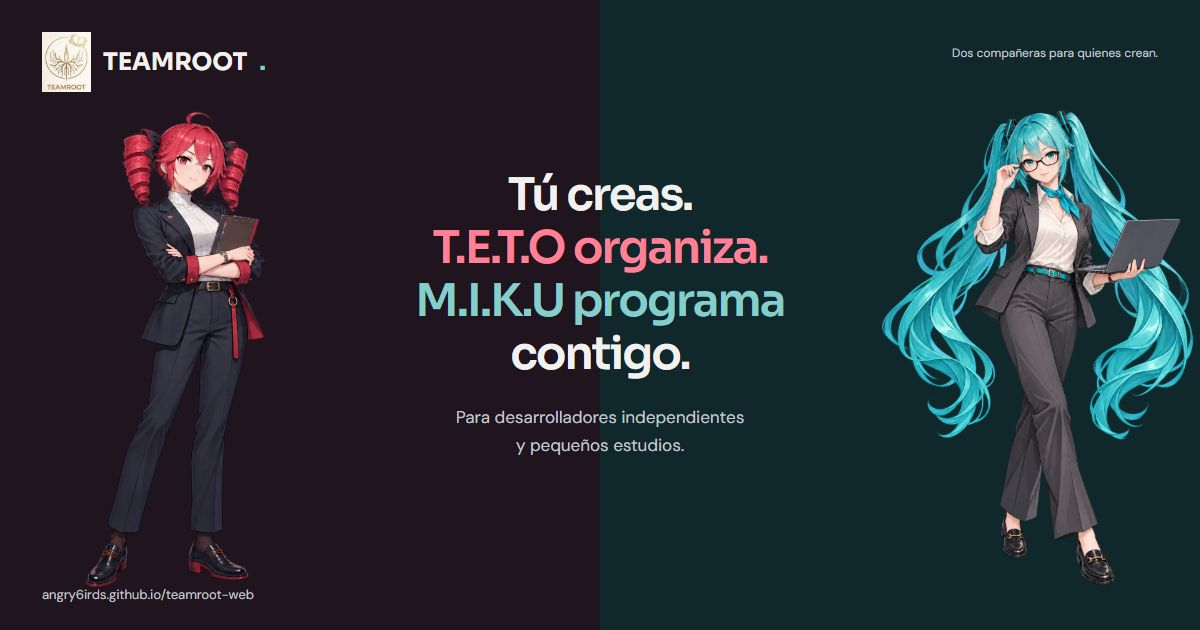
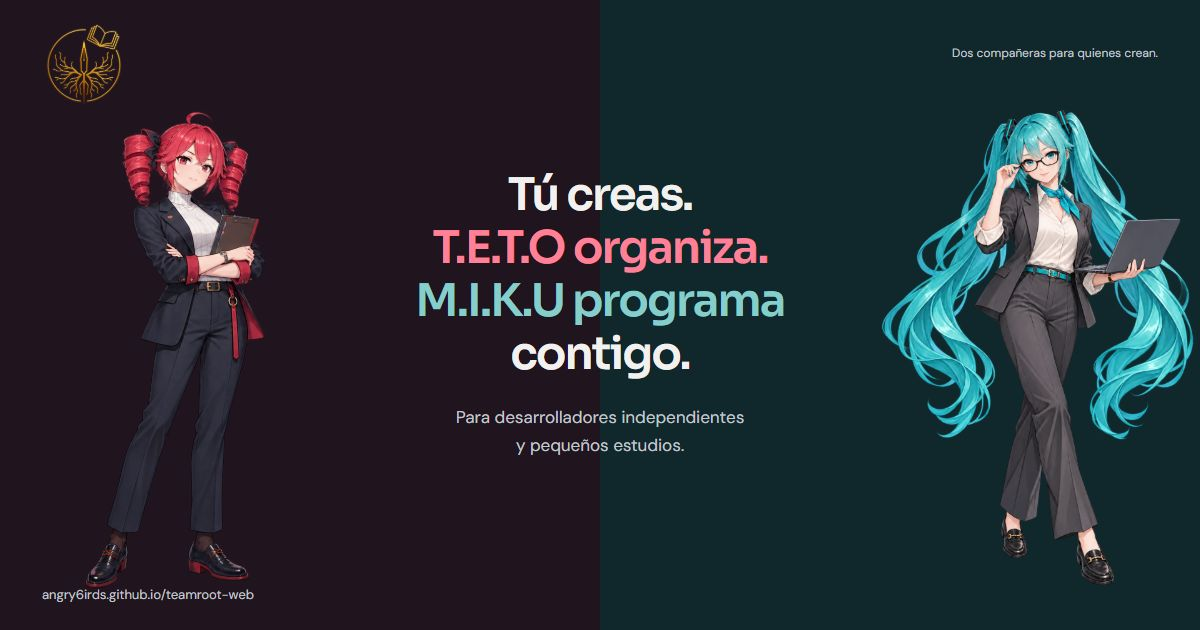
art: integrate transparent TEAMROOT emblem without lettering

Changed region(s): [[0.0308, 0.0302, 0.2158, 0.181]]

diff --git a/index.html b/index.html
@@ -5,25 +5,25 @@
   <meta name="theme-color" content="#101217">
   <meta name="description" content="T.E.T.O y M.I.K.U: compañeras de gestión y programación para desarrolladores independientes y pequeños estudios. Proyecto en desarrollo.">
   <title>TEAMROOT — T.E.T.O & M.I.K.U</title>
-  <link rel="icon" type="image/png" href="assets/teamroot-logo.png">
+  <link rel="icon" type="image/png" href="assets/teamroot-emblem.png">
   <link rel="canonical" href="https://angry6irds.github.io/teamroot-web/">
   <meta property="og:type" content="website">
   <meta property="og:locale" content="es_MX">
   <meta property="og:title" content="TEAMROOT — T.E.T.O & M.I.K.U">
   <meta property="og:description" content="Tú creas. T.E.T.O organiza. M.I.K.U programa contigo. Dos compañeras para desarrolladores independientes y pequeños estudios.">
   <meta property="og:url" content="https://angry6irds.github.io/teamroot-web/">
-  <meta property="og:image" content="https://angry6irds.github.io/teamroot-web/assets/social-preview.png?v=2">
+  <meta property="og:image" content="https://angry6irds.github.io/teamroot-web/assets/social-preview.png?v=3">
   <meta property="og:image:width" content="1200"><meta property="og:image:height" content="630">
   <meta property="og:image:alt" content="TEAMROOT: T.E.T.O y M.I.K.U, compañeras de gestión y programación">
   <meta name="twitter:card" content="summary_large_image">
   <meta name="twitter:title" content="TEAMROOT — T.E.T.O & M.I.K.U">
   <meta name="twitter:description" content="Tú creas. T.E.T.O organiza. M.I.K.U programa contigo.">
-  <meta name="twitter:image" content="https://angry6irds.github.io/teamroot-web/assets/social-preview.png?v=2">
-  <link rel="stylesheet" href="style.css?v=6">
+  <meta name="twitter:image" content="https://angry6irds.github.io/teamroot-web/assets/social-preview.png?v=3">
+  <link rel="stylesheet" href="style.css?v=7">
 </head>
 <body>
   <header class="header">
-    <a class="wordmark studio-mark" href="#inicio" aria-label="TEAMROOT, inicio"><img class="studio-symbol" src="assets/teamroot-logo.png" width="50" height="61" alt=""><span>TEAMROOT<span class="brand-dot">.</span></span></a>
+    <a class="wordmark studio-mark" href="#inicio" aria-label="TEAMROOT, inicio"><img class="studio-symbol" src="assets/teamroot-emblem.png" width="72" height="72" alt=""></a>
     <span class="status"><i aria-hidden="true"></i> En desarrollo</span>
   </header>
   <main id="viewport" class="viewport">

diff --git a/style.css b/style.css
@@ -21,3 +21,4 @@
 @container site (max-width:400px){.home{height:calc(505px + var(--portrait-height))}}
 .status,.review-file>span{font-size:11px}
 .studio-symbol{width:50px;height:61px;object-fit:contain;border-radius:3px}@media(max-width:650px){.studio-symbol{width:34px;height:42px}}
+.studio-mark{gap:0}.studio-symbol{width:72px;height:72px;border-radius:0;object-fit:contain}@media(max-width:650px){.studio-symbol{width:48px;height:48px}}

diff --git a/README.md b/README.md
@@ -21,7 +21,7 @@ Selecciona un personaje para ver su presentación; usa «Volver a las dos» o Es
 
 La portada ofrece respuesta visual y frases al enfocar una compañera. Las fichas incluyen ejemplos ilustrativos de revisión y programación. No ejecutan el código mostrado ni contienen datos de proyectos reales.
 
-El logo de TEAMROOT proporcionado por el estudio se usa como favicon y en la cabecera. Los metadatos Open Graph y Twitter apuntan a `assets/social-preview.png`, una imagen de 1200 × 630 píxeles para compartir el sitio.
+El emblema de TEAMROOT, adaptado del logo proporcionado por el estudio para retirar el fondo y las letras, se usa como favicon y en la cabecera. Los metadatos Open Graph y Twitter apuntan a `assets/social-preview.png`, una imagen de 1200 × 630 píxeles para compartir el sitio.
 
 ## Recursos visuales
 
